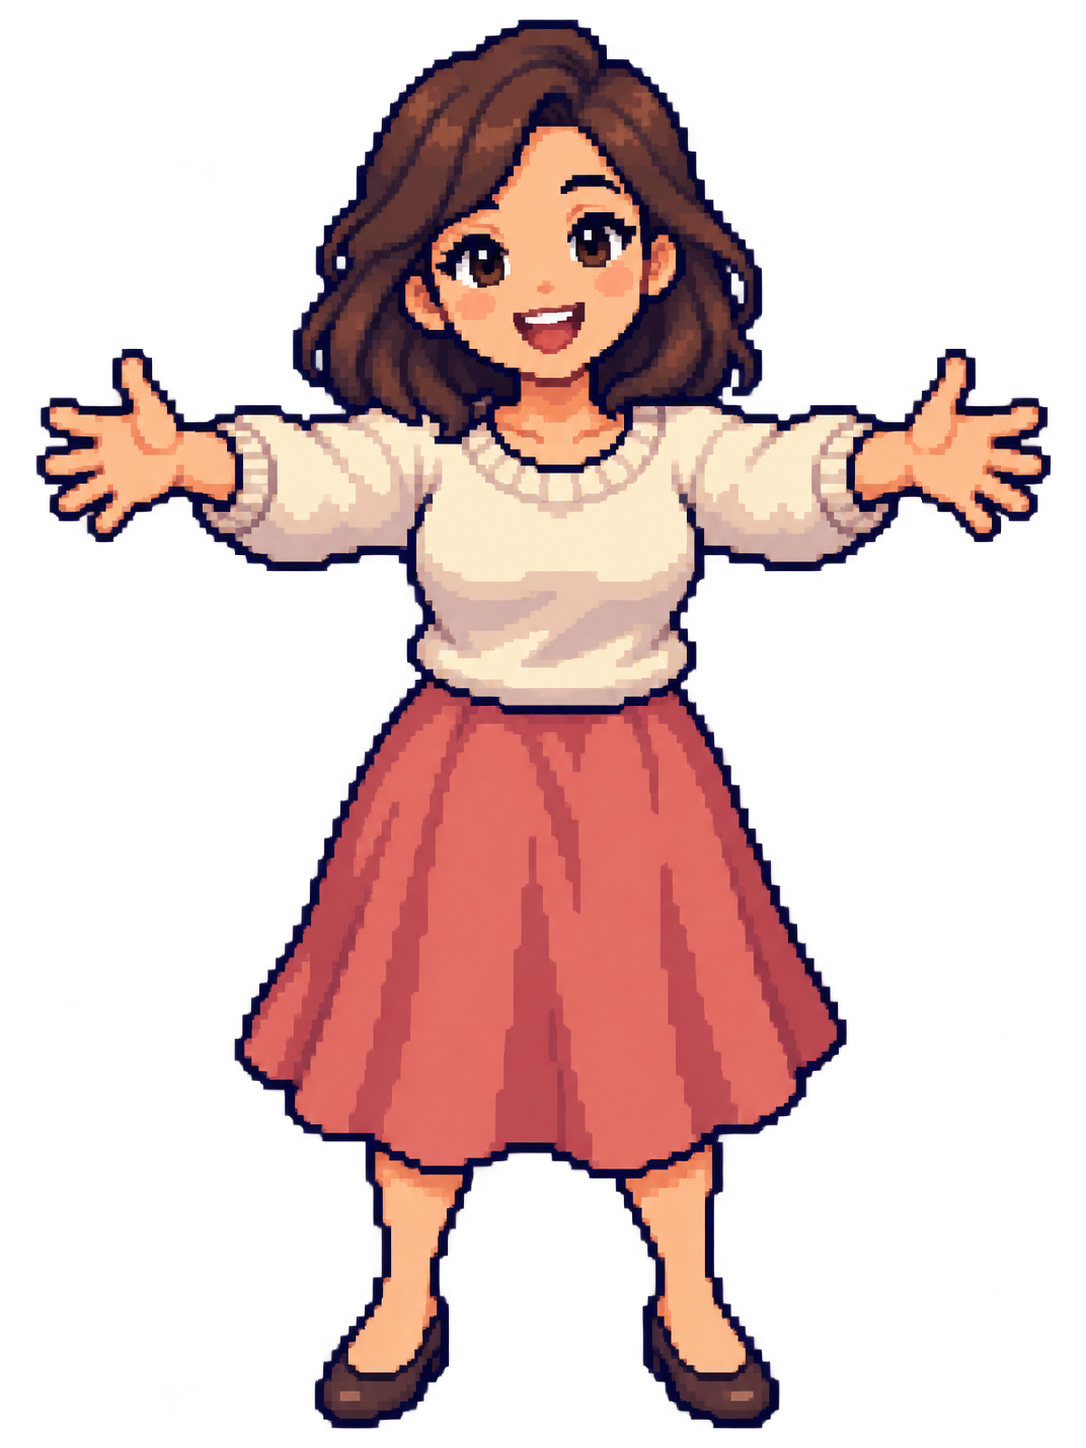
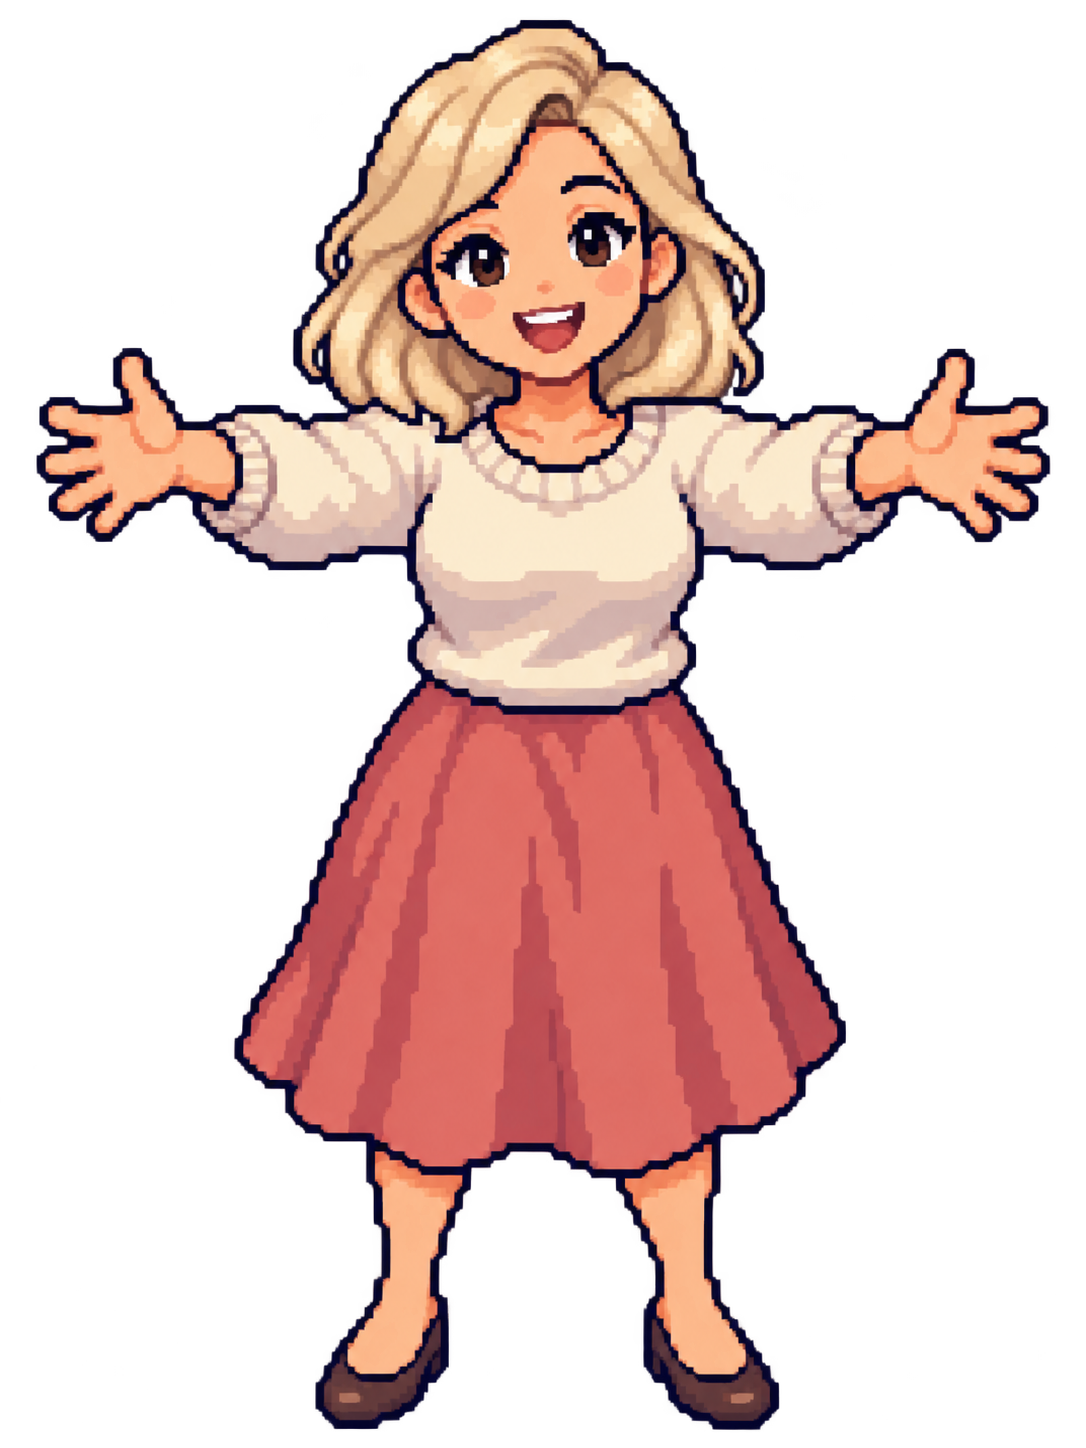
Recover iPhone audio on touch and update both characters to blond hair

diff --git a/index.html b/index.html
@@ -1,11 +1,11 @@
 <!doctype html>
-<html lang="ru"><head><meta charset="utf-8"><meta name="viewport" content="width=device-width,initial-scale=1,viewport-fit=cover"><meta name="theme-color" content="#101a30"><meta name="robots" content="noindex,nofollow,noarchive"><meta name="description" content="Мам, я опять. Три маленькие игры и одно поздравление от сына."><title>Мам, я опять.</title><link rel="icon" type="image/svg+xml" href="assets/star.svg"><link rel="preload" as="image" href="assets/home.webp"><link rel="stylesheet" href="style.css?v=20261008-2"><script src="mobile.js?v=20261008-2" defer></script><script src="sound.js?v=20261008-2" defer></script><script src="travel-game.js?v=20261008-2" defer></script><script src="slice-game.js?v=20261008-2" defer></script><script src="games.js?v=20261008-2" defer></script><script src="story.js?v=20261008-2" defer></script></head>
+<html lang="ru"><head><meta charset="utf-8"><meta name="viewport" content="width=device-width,initial-scale=1,viewport-fit=cover"><meta name="theme-color" content="#101a30"><meta name="robots" content="noindex,nofollow,noarchive"><meta name="description" content="Мам, я опять. Три маленькие игры и одно поздравление от сына."><title>Мам, я опять.</title><link rel="icon" type="image/svg+xml" href="assets/star.svg"><link rel="preload" as="image" href="assets/home.webp"><link rel="stylesheet" href="style.css?v=20261008-3"><script src="mobile.js?v=20261008-3" defer></script><script src="sound.js?v=20261008-3" defer></script><script src="travel-game.js?v=20261008-3" defer></script><script src="slice-game.js?v=20261008-3" defer></script><script src="games.js?v=20261008-3" defer></script><script src="story.js?v=20261008-3" defer></script></head>
 <body>
 <main class="story" id="story" aria-label="Игра для мамы">
 <div class="world world-home visible" data-world="home" aria-hidden="true"></div><div class="world world-distance" data-world="distance" aria-hidden="true"></div><div class="world world-garden" data-world="garden" aria-hidden="true"></div><div class="shade" aria-hidden="true"></div>
-<header class="topbar"><span class="brand"><span class="brand-icon" aria-hidden="true">✦</span><span class="brand-copy"><strong>Для мамы</strong><small>20 лет опыта. Один сын.</small></span></span><button class="sound-button" id="sound" type="button" aria-pressed="true" aria-label="Выключить звук"><svg viewBox="0 0 24 24" aria-hidden="true"><path d="M11 5 6 9H3v6h3l5 4V5Z"/><path class="sound-wave" d="M15 8a6 6 0 0 1 0 8M18 5a10 10 0 0 1 0 14"/><path class="sound-off" d="m16 10 4 4m0-4-4 4"/></svg></button></header>
+<header class="topbar"><span class="brand"><span class="brand-icon" aria-hidden="true">✦</span><span class="brand-copy"><strong>Для мамы</strong><small>20 лет опыта. Один сын.</small></span></span><button class="sound-button" id="sound" type="button" aria-pressed="false" aria-label="Включить звук"><svg viewBox="0 0 24 24" aria-hidden="true"><path d="M11 5 6 9H3v6h3l5 4V5Z"/><path class="sound-wave" d="M15 8a6 6 0 0 1 0 8M18 5a10 10 0 0 1 0 14"/><path class="sound-off" d="m16 10 4 4m0-4-4 4"/></svg></button></header>
 <nav class="level-map" aria-label="Уровни"><span class="map-line" aria-hidden="true"></span><button type="button" data-level="1" aria-label="Уровень 1. Поймай меня"><span>1</span><small>Поймать</small></button><button type="button" data-level="2" aria-label="Уровень 2. Успокой меня"><span>2</span><small>Успокоить</small></button><button type="button" data-level="3" aria-label="Уровень 3. Время отдыхать"><span>3</span><small>В дорогу</small></button></nav>
-<section class="page cover" id="cover" aria-labelledby="cover-title"><p class="eyebrow">КО ДНЮ РОЖДЕНИЯ ГЛАВНОГО ИГРОКА</p><h1 id="cover-title" tabindex="-1">Мам,<br><span>я опять.</span></h1><p class="cover-description">Сначала меня нужно поймать.<br>Потом успокоить.<br>В общем, ничего нового.</p><div class="character-scene" aria-hidden="true"><span class="speech-bubble">МАМ, ЛОВИ!</span><img class="cover-son" src="assets/son.webp" alt=""><img class="cover-mom" src="assets/mom.webp" alt=""><span class="character-shadow"></span></div><div class="cover-note"><span class="pixel-heart" aria-hidden="true">♥</span><span>Три уровня. Один сын.<br>Попытки, как всегда, бесконечные.</span></div></section>
+<section class="page cover" id="cover" aria-labelledby="cover-title"><p class="eyebrow">КО ДНЮ РОЖДЕНИЯ ГЛАВНОГО ИГРОКА</p><h1 id="cover-title" tabindex="-1">Мам,<br><span>я опять.</span></h1><p class="cover-description">Сначала меня нужно поймать.<br>Потом успокоить.<br>В общем, ничего нового.</p><div class="character-scene" aria-hidden="true"><span class="speech-bubble">МАМ, ЛОВИ!</span><img class="cover-son" src="assets/son.webp?v=20261008-3" alt=""><img class="cover-mom" src="assets/mom.webp?v=20261008-3" alt=""><span class="character-shadow"></span></div><div class="cover-note"><span class="pixel-heart" aria-hidden="true">♥</span><span>Три уровня. Один сын.<br>Попытки, как всегда, бесконечные.</span></div></section>
 <section class="page game-page" id="game-page" aria-labelledby="game-title" hidden><div class="game-copy"><p class="eyebrow" id="level-label">УРОВЕНЬ 01 / 03</p><h2 id="game-title" tabindex="-1">Мам, лови!</h2><p class="game-description" id="game-description"></p></div><div class="game-status"><span class="status-square" aria-hidden="true"></span><span id="game-status" aria-live="polite">Готовность: мама.</span></div><div class="game-host" id="game-host"></div><div class="win-note" id="win-note" hidden aria-live="polite"><span class="win-icon" aria-hidden="true">✓</span><div><strong id="win-title"></strong><p id="win-description"></p></div></div></section>
 <section class="page final-page" id="final-page" aria-labelledby="final-title" hidden><div class="final-content"><h2 id="final-title" tabindex="-1"><span class="final-heading-line">С днём рождения,</span><span class="final-heading-name">мам!</span></h2><div class="letter"><p>Ты у меня самая красивая. И у тебя правда есть суперспособность — понимать, что мне нужно, и находить правильные слова.</p><p>Мне уже 20. Я переехал в Дубай, ты сейчас путешествуешь, но даже на расстоянии я всё равно чувствую, что ты рядом.</p><p>Спасибо, что умеешь так меня успокоить. Сегодня твоя единственная задача — хорошо отметить. С моими приключениями разберёмся завтра.</p><p class="love-line">Люблю тебя больше всего на свете.</p><p class="signature">Твой Дима <span aria-hidden="true">♥</span></p></div><button class="replay-button" id="replay" type="button">↻ Ещё раз поймать меня</button></div></section>
 <footer class="controls"><button class="main-button" id="next" type="button"><span id="next-label">Ну, погоди, сын</span><span aria-hidden="true">→</span></button></footer>

diff --git a/sound.js b/sound.js
@@ -6,13 +6,31 @@
   const MAX_VOICES = 40, MAX_PENDING = 8;
   const limits = { start: 250, catch: 120, miss: 250, swipe: 150, slice: 80, combo: 180, pickup: 90, drop: 100, return: 160, complete: 500 };
   let enabled = true, ambient = false, interacted = false;
-  let audio = null, master = null, resumePending = null;
+  let audio = null, master = null, resumePending = null, resumeAttempt = 0, warmup = null;
   let scene = 0, musicMode = null, victoryDone = false, phrase = 0, epoch = 0;
   let loopTimer = null, victoryTimer = null, pendingEffects = [];
   const voices = new Set(), rates = new Map(), subscribers = new Set();
   const now = () => typeof performance !== 'undefined' ? performance.now() : Date.now();
-  const state = () => ({ enabled, ambient, unlocked: interacted, playing: musicMode, available: Boolean(window.AudioContext || window.webkitAudioContext) });
+  const state = () => ({ enabled, ambient, unlocked: Boolean(audio && audio.state === 'running'), ready: Boolean(enabled && audio && audio.state === 'running' && !document.hidden), playing: musicMode, available: Boolean(window.AudioContext || window.webkitAudioContext) });
   function notify() { subscribers.forEach(fn => { try { fn(state()); } catch (_) {} }); }
+  function audioSession(type) {
+    try { if (typeof navigator !== 'undefined' && navigator.audioSession) navigator.audioSession.type = type; } catch (_) {}
+  }
+  function clearWarmup() {
+    if (!warmup) return;
+    warmup.onended = null;
+    try { warmup.stop(); } catch (_) {}
+    warmup.disconnect(); warmup = null;
+  }
+  function primeOutput() {
+    // Start a real source in the same gesture stack, including on older Safari.
+    clearWarmup();
+    const source = audio.createBufferSource();
+    source.buffer = audio.createBuffer(1, 1, audio.sampleRate);
+    source.connect(master); warmup = source;
+    source.onended = () => { source.disconnect(); if (warmup === source) warmup = null; };
+    source.start(0);
+  }
 
   function retire(voice, stop = false) {
     if (!voices.has(voice)) return;
@@ -34,7 +52,7 @@
     voices.forEach(voice => { if (voice.category === 'music') retire(voice, true); });
   }
   function stopAll() {
-    epoch++; stopMusic(); stopEffects();
+    epoch++; stopMusic(); stopEffects(); clearWarmup();
   }
 
   function tone(frequency, duration = .12, delay = 0, volume = .016, type = 'triangle', endFrequency = null, category = 'effect') {
@@ -137,29 +155,49 @@
     try {
       const Audio = window.AudioContext || window.webkitAudioContext;
       if (!Audio) return Promise.resolve(false);
+      audioSession('playback');
       if (!audio) {
         audio = new Audio(); master = audio.createGain();
-        master.gain.value = .65; master.connect(audio.destination);
+        master.gain.value = 2; master.connect(audio.destination);
+        audio.onstatechange = () => {
+          if (audio.state === 'interrupted') stopAll();
+          notify();
+        };
       }
-      if (audio.state === 'running') { syncMusic(); return Promise.resolve(true); }
-      if (resumePending) return resumePending;
-      // This call happens immediately in the pointer/click/keyboard handler.
+      if (audio.state === 'running') { syncMusic(); notify(); return Promise.resolve(true); }
+      // A touch pointerdown may leave resume() pending forever. A later release
+      // or click MUST retry synchronously, even while that old promise exists.
+      const attempt = ++resumeAttempt;
       const resume = audio.resume();
-      resumePending = Promise.resolve(resume).then(() => {
-        resumePending = null;
-        if (!enabled || document.hidden || audio.state !== 'running') { pendingEffects = []; return false; }
-        syncMusic();
-        const queued = pendingEffects; pendingEffects = [];
-        queued.forEach(event => { if (event.epoch === epoch && now() - event.time < 350) playEffect(event.kind, event.detail); });
-        notify(); return true;
-      }).catch(() => { resumePending = null; pendingEffects = []; return false; });
+      primeOutput();
+      resumePending = new Promise(resolve => {
+        let settled = false;
+        const finish = () => {
+          if (settled) return;
+          settled = true; clearTimeout(deadline);
+          const ready = enabled && !document.hidden && audio.state === 'running';
+          // An earlier rejected/pending attempt must not erase the newer one.
+          if (attempt === resumeAttempt) {
+            resumePending = null;
+            if (ready) {
+              syncMusic();
+              const queued = pendingEffects; pendingEffects = [];
+              queued.forEach(event => { if (event.epoch === epoch && now() - event.time < 350) playEffect(event.kind, event.detail); });
+            } else pendingEffects = [];
+            notify();
+          }
+          resolve(ready);
+        };
+        const deadline = setTimeout(finish, 1500);
+        Promise.resolve(resume).then(finish, finish);
+      });
       return resumePending;
     } catch (_) { resumePending = null; pendingEffects = []; return Promise.resolve(false); }
   }
 
   function setEnabled(value) {
     enabled = Boolean(value);
-    if (!enabled) stopAll(); else syncMusic();
+    if (!enabled) { stopAll(); audioSession('auto'); } else syncMusic();
     notify(); return enabled;
   }
   function setAmbient(value) {
@@ -175,16 +213,25 @@
   }
 
   // A single set of page-lifetime listeners also covers touch-generated clicks.
-  document.addEventListener('pointerdown', unlock, { capture: true, passive: true });
-  document.addEventListener('click', unlock, { capture: true, passive: true });
-  document.addEventListener('keydown', event => { if (!event.repeat && !event.metaKey && !event.ctrlKey && !event.altKey) unlock(); }, { capture: true });
+  function gestureUnlock(event) {
+    // The sound button owns its toggle; auto-unlocking it in capture would make
+    // its click handler immediately mute the context it had just enabled.
+    if (event?.target?.closest?.('#sound')) return;
+    unlock();
+  }
+  document.addEventListener('pointerdown', event => { if (event.pointerType === 'mouse') gestureUnlock(event); }, { capture: true, passive: true });
+  document.addEventListener('pointerup', gestureUnlock, { capture: true, passive: true });
+  document.addEventListener('touchend', gestureUnlock, { capture: true, passive: true });
+  document.addEventListener('click', gestureUnlock, { capture: true, passive: true });
+  document.addEventListener('keydown', event => { if (!event.repeat && !event.metaKey && !event.ctrlKey && !event.altKey) gestureUnlock(event); }, { capture: true });
   document.addEventListener('visibilitychange', () => {
     if (document.hidden) {
       stopAll();
+      audioSession('auto');
       if (audio) audio.suspend().catch(() => {});
     } else if (interacted && enabled) unlock();
   });
-  window.addEventListener('pagehide', () => { stopAll(); if (audio) audio.suspend().catch(() => {}); });
+  window.addEventListener('pagehide', () => { stopAll(); audioSession('auto'); if (audio) audio.suspend().catch(() => {}); });
   window.addEventListener('pageshow', () => { if (interacted && enabled && !document.hidden) unlock(); });
 
   window.MamaAudio = Object.freeze({ unlock, sfx, setEnabled, setAmbient, setScreen, stopEffects, subscribe, get enabled() { return enabled; }, get state() { return state(); } });

diff --git a/story.js b/story.js
@@ -59,21 +59,24 @@ function show(screen){
     }
   });
 }
-$('#next').addEventListener('click',()=>{window.MamaAudio?.unlock();show(current+1);});
+$('#next').addEventListener('click',()=>{window.MamaAudio?.unlock();show(current+1);if(current!==4)window.MamaAudio?.sfx('start');});
 $('#replay').addEventListener('click',()=>{window.MamaAudio?.unlock();completed.clear();show(1);});
 $$('[data-level]').forEach(button=>button.addEventListener('click',()=>{window.MamaAudio?.unlock();show(Number(button.dataset.level));}));
 // The shared engine controls effects, optional ambient music, and the finale.
 const audioEngine=window.MamaAudio;
 function soundUI(state){
-  const enabled=Boolean(state&&state.enabled);
-  $('#sound').setAttribute('aria-pressed',String(enabled));
-  $('#sound').setAttribute('aria-label',enabled?'Выключить звук':'Включить звук');
+  const ready=Boolean(state&&state.ready);
+  $('#sound').setAttribute('aria-pressed',String(ready));
+  $('#sound').setAttribute('aria-label',ready?'Выключить звук':'Включить звук');
 }
 if(audioEngine)audioEngine.subscribe(soundUI);else soundUI(null);
 $('#sound').addEventListener('click',()=>{
   if(!audioEngine){announcement('Звук недоступен. На игры это не влияет.');return;}
-  const enabled=audioEngine.setEnabled(!audioEngine.enabled);
-  if(enabled)audioEngine.unlock().then(ok=>{if(!ok&&audioEngine.enabled)announcement('Звук не включился. На игры это не влияет.');});
+  if(audioEngine.state.ready){audioEngine.setEnabled(false);return;}
+  audioEngine.setEnabled(true);
+  const ready=audioEngine.unlock();
+  audioEngine.sfx('start');
+  ready.then(ok=>{if(!ok&&audioEngine.enabled)announcement('Звук не запустился. Нажми на динамик ещё раз.');});
 });
 show(0);
 })();

diff --git a/games.js b/games.js
@@ -155,7 +155,7 @@
     function fallback(x,y,size,mom) {
       const u=size/12;
       const block=(a,b,w,h,color)=>{ctx.fillStyle=color;ctx.fillRect(Math.round(x+a*u),Math.round(y+b*u),Math.ceil(w*u),Math.ceil(h*u));};
-      block(3,0,6,4,'#493732');block(4,2,4,4,'#efbe99');block(4,3,1,1,'#283449');block(7,3,1,1,'#283449');
+      block(3,0,6,4,'#d9bd7d');block(4,2,4,4,'#efbe99');block(4,3,1,1,'#283449');block(7,3,1,1,'#283449');
       block(3,6,6,4,mom?'#e7bda6':'#87b7da');block(0,5,3,2,'#efbe99');block(9,5,3,2,'#efbe99');block(3,10,2,2,'#dce4ed');block(7,10,2,2,'#dce4ed');
     }
     function sprite(name,x,y,size) {
@@ -174,7 +174,7 @@
       ctx.textAlign='center';ctx.fillStyle='#ffebc7';
       if(running&&toast){ctx.font='bold 20px -apple-system,sans-serif';ctx.fillText(toast,165,H*.42);}
     }
-    ['mom','son'].forEach(name=>{const p=new Image();pictures[name]=p;session.on(p,'load',()=>{if(session.live)draw();});session.on(p,'error',()=>{if(session.live)draw();});p.src=`assets/${name}.webp`;});
+    ['mom','son'].forEach(name=>{const p=new Image();pictures[name]=p;session.on(p,'load',()=>{if(session.live)draw();});session.on(p,'error',()=>{if(session.live)draw();});p.src=`assets/${name}.webp?v=20261008-3`;});
     function follow(event) { const b=canvas.getBoundingClientRect();if(b.width)chooseX((event.clientX-b.left)*330/b.width); }
     session.on(canvas,'pointerdown',event=>{
       if(!running||!session.live||!event.isPrimary)return;
